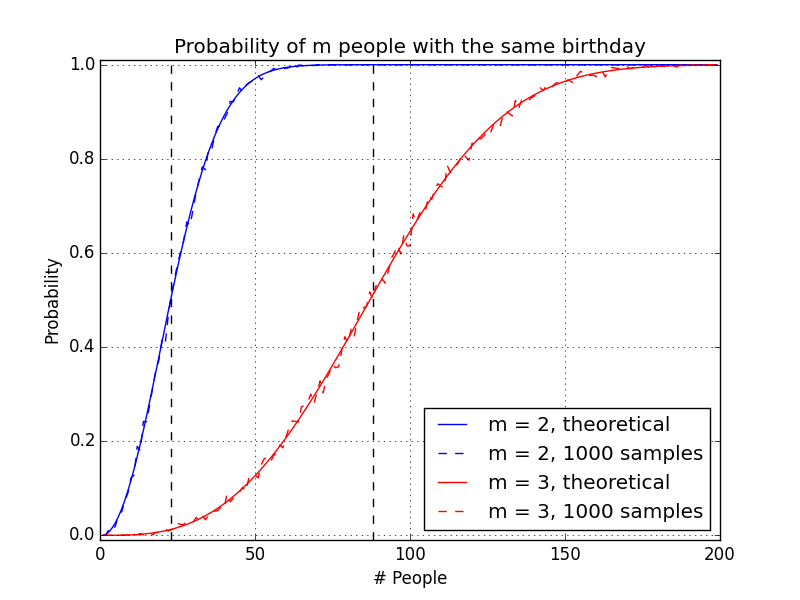
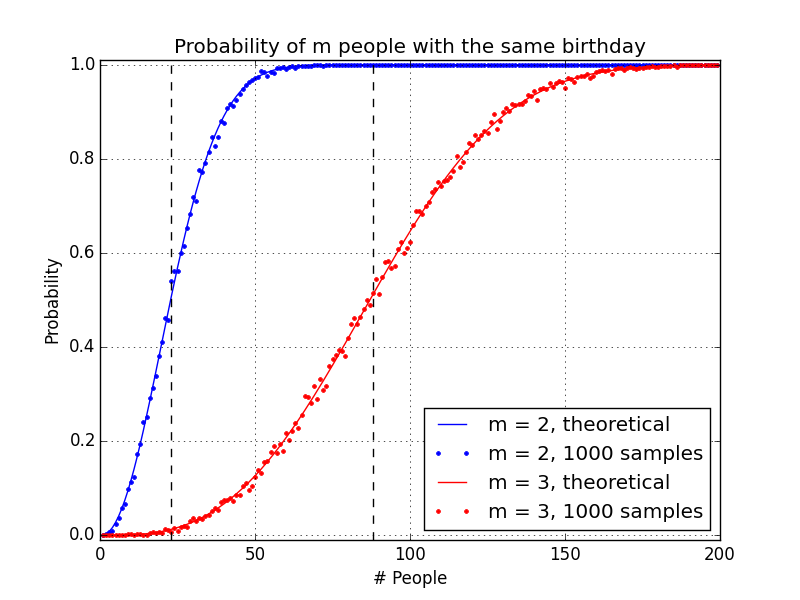
sdd

diff --git a/yoni/multi_birthday.py b/yoni/multi_birthday.py
@@ -67,8 +67,8 @@ def plot_probability(k, sample_size=1000):
     N_half_pair = it.dropwhile(lambda (n, p): p < 0.5, zip(N, p_pair)).next()[0]
     N_triple_pair = it.dropwhile(lambda (n, p): p < 0.5, zip(N, p_triple)).next()[0]
     
-    P.plot(N, p_pair, 'b-', N, p_pair_experimental, 'b--',
-           N, p_triple, 'r-', N, p_triple_experimental, 'r--')
+    P.plot(N, p_pair, 'b-', N, p_pair_experimental, 'b.',
+           N, p_triple, 'r-', N, p_triple_experimental, 'r.')
     P.legend(['m = 2, theoretical', 'm = 2, %d samples' % (sample_size,),
               'm = 3, theoretical', 'm = 3, %d samples' % (sample_size,)],
              loc='lower right')
